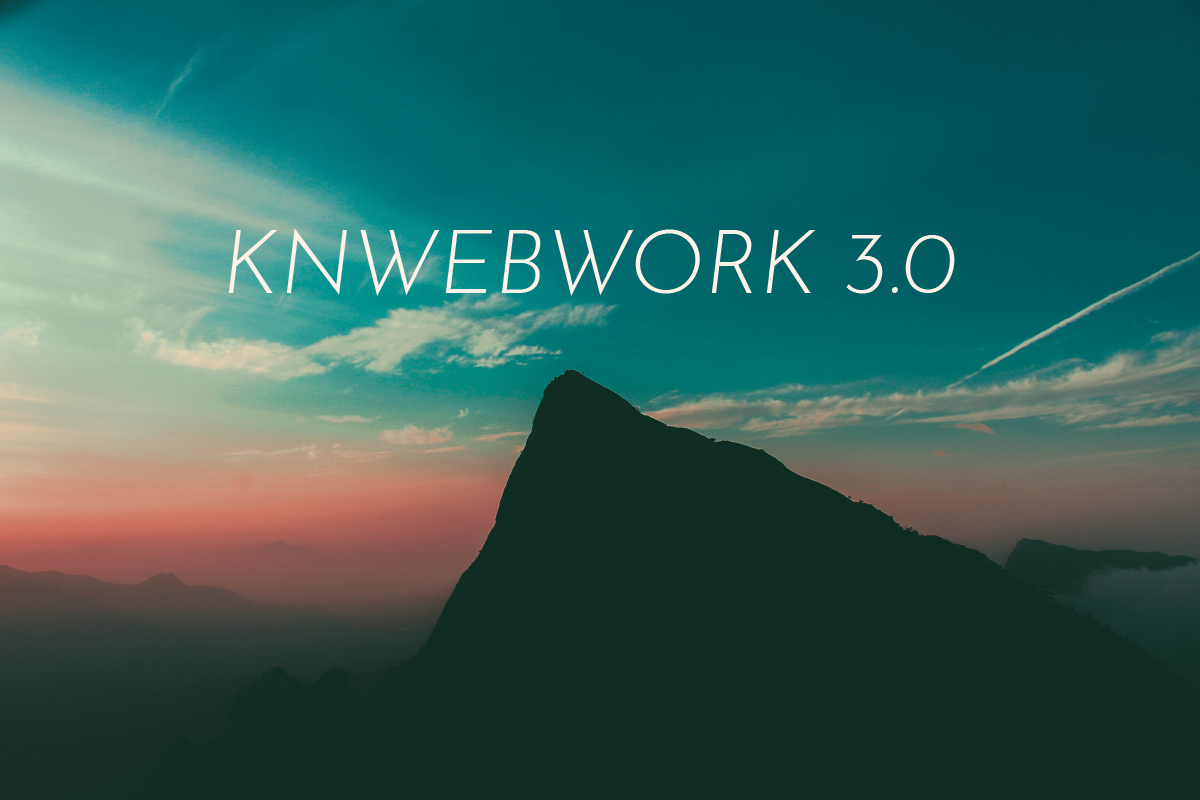
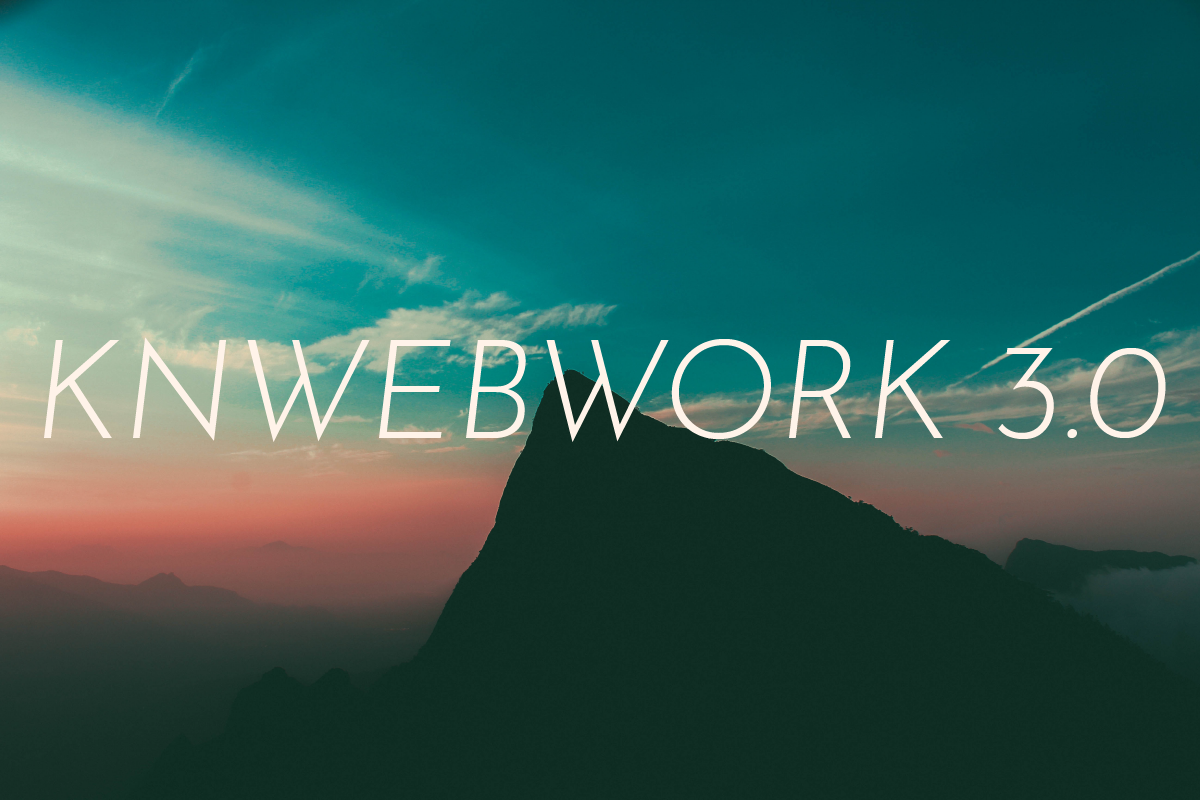
add hero section

diff --git a/style.css b/style.css
@@ -1447,6 +1447,16 @@ html {
   clear: both;
   content: ""; }
 
+.sl-justify {
+  height: 1.5em;
+  line-height: 1.5em;
+  text-align: justify;
+  text-align-last: justify; }
+  .sl-justify:after {
+    content: " ";
+    display: inline-block;
+    width: 100%; }
+
 /*--------------------------------------------------------------
 # Variables
 --------------------------------------------------------------*/
@@ -1454,7 +1464,7 @@ html {
 # Layouts
 --------------------------------------------------------------*/
 body {
-  color: #222222; }
+  color: #fff3e9; }
 
 /*--------------------------------------------------------------
 # Layouts
@@ -1470,7 +1480,7 @@ body {
     left: 0;
     right: 0;
     bottom: 0;
-    background-color: rgba(26, 26, 26, 0.2);
+    background-color: rgba(26, 26, 26, 0.1);
     z-index: 1; }
 
 #page {
@@ -1501,6 +1511,29 @@ body {
   .l-site-footer__contact a {
     color: inherit;
     text-decoration: none; }
+
+.c-hero__intro {
+  font-size: 52px;
+  font-weight: 100;
+  text-align: center; }
+
+.c-hero__title {
+  font-size: 82px;
+  font-style: italic; }
+
+.c-hero__subtitle {
+  display: block;
+  font-size: 52px;
+  font-style: normal; }
+
+.c-hero__cta {
+  color: #53eaf2;
+  font-size: 38px;
+  font-style: italic;
+  text-decoration: none; }
+
+.l-hero {
+  margin-top: 180px; }
 
 .c-main-nav__logo {
   float: left; }

diff --git a/sass/components/_hero.scss b/sass/components/_hero.scss
@@ -1,0 +1,28 @@
+.c-hero__intro {
+    font-size: 52px;
+    font-weight: 100;
+    text-align: center;
+}
+
+.c-hero__title {
+    font-size: 82px;
+    font-style: italic;
+}
+
+.c-hero__subtitle {
+    display: block;
+
+    font-size: 52px;
+    font-style: normal;
+}
+
+.c-hero__cta {
+    color: $color__emphasis;
+    font-size: 38px;
+    font-style: italic;
+    text-decoration: none;
+}
+
+.l-hero {
+    margin-top: 180px;
+}

diff --git a/sass/style.scss b/sass/style.scss
@@ -34,6 +34,7 @@ Nicolas Gallagher and Jonathan Neal https://necolas.github.io/normalize.css/
 @import "lib/bootstrap/mixins/breakpoints";
 @import "lib/bootstrap/mixins/clearfix";
 @import "lib/bootstrap/utilities/clearfix";
+@import "lib/single-line-justify";
 
 /*--------------------------------------------------------------
 # Variables

diff --git a/sass/layouts/_page.scss b/sass/layouts/_page.scss
@@ -10,7 +10,7 @@ body {
         left: 0;
         right: 0;
         bottom: 0;
-        background-color: rgba(26, 26, 26, .20);
+        background-color: rgba(26, 26, 26, .10);
         z-index: 1;
     }
 }

diff --git a/sass/base/base.scss b/sass/base/base.scss
@@ -1,3 +1,3 @@
 body {
-    color: $color__black;
+    color: $color__off-white;
 }

diff --git a/front-page.php b/front-page.php
@@ -1,0 +1,29 @@
+<?php
+/**
+ * The template for displaying all pages
+ *
+ * This is the template that displays all pages by default.
+ * Please note that this is the WordPress construct of pages
+ * and that other 'pages' on your WordPress site may use a
+ * different template.
+ *
+ * @link https://developer.wordpress.org/themes/basics/template-hierarchy/
+ *
+ * @package KN_Webwork_3.0
+ */
+
+get_header();
+?>
+
+    <div id="primary" class="content-area">
+        <main id="main" class="site-main container">
+            <div class="c-hero l-hero">
+                <h2 class="c-hero__intro l-hero__intro">Las Vegas Grown</h2>
+                <h1 class="c-hero__title l-hero__title col-sm-6 offset-sm-3">FULL STACK <span class="c-hero__subtitle">APPS &amp; WEBSITES</span></h1>
+                <a class="c-hero__cta l-hero__cta col-sm-4 offset-sm-8" href="<?php echo bloginfo('url'); ?>/work-with-us">hire us</a>
+            </div>
+        </main><!-- #main -->
+    </div><!-- #primary -->
+
+<?php
+get_footer();

diff --git a/functions.php b/functions.php
@@ -122,7 +122,7 @@ add_action( 'widgets_init', 'kn_webwork_3_0_widgets_init' );
 function kn_webwork_3_0_scripts() {
 	wp_enqueue_style( 'kn-webwork-3-0-style', get_stylesheet_uri() );
 
-	wp_enqueue_style( 'josefin-sans', 'https://fonts.googleapis.com/css?family=Josefin+Sans:300,400,400i,600i');
+	wp_enqueue_style( 'josefin-sans', 'https://fonts.googleapis.com/css?family=Josefin+Sans:100,300,400,400i,600i');
 
 	wp_enqueue_script( 'kn-webwork-3-0-navigation', get_template_directory_uri() . '/js/navigation.js', array(), '20151215', true );
 

diff --git a/header.php b/header.php
@@ -27,7 +27,9 @@
 
 		<nav id="site-navigation" class="c-main-nav l-main-nav container clearfix">
 			<div class="c-main-nav__logo">
-				<img src="<?php echo get_stylesheet_directory_uri(); ?>/img/knww-logo.png">
+				<a href="<?php echo bloginfo('url'); ?>">
+					<img src="<?php echo get_stylesheet_directory_uri(); ?>/img/knww-logo.png">
+				</a>
 			</div>
 			<button class="c-main-nav__menu-toggle" aria-controls="primary-menu" aria-expanded="false"><?php esc_html_e( 'Primary Menu', 'kn-webwork-3-0' ); ?></button>
 			<?php
